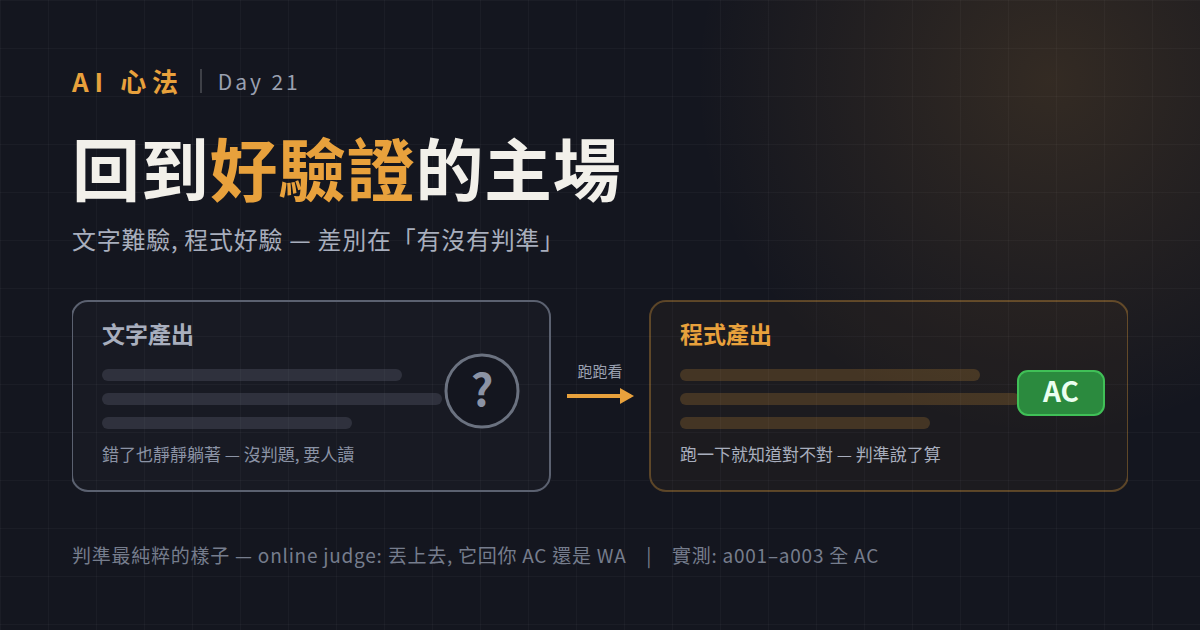
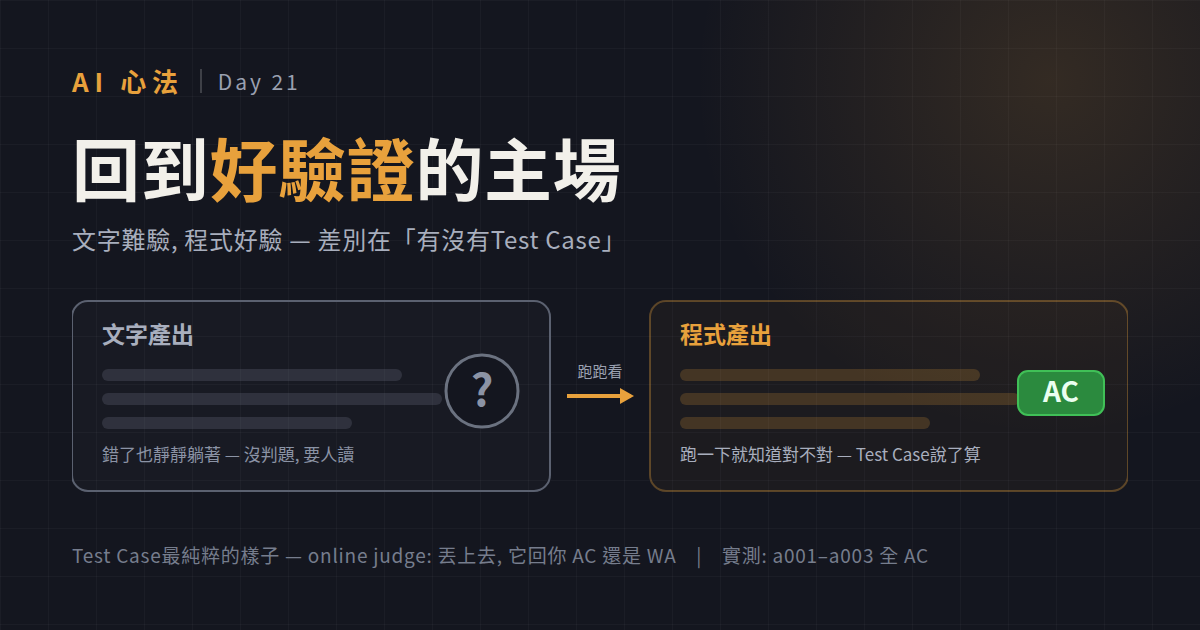
Day 21 封面: 判準 → Test Case (3 處) 並重繪
Claude-Session: https://claude.ai/code/session_01SkUscqAqqbTWPySrqyQb5A

Changed region(s): [[0.0617, 0.8444, 0.7708, 0.9048], [0.7092, 0.6937, 0.8325, 0.754], [0.4008, 0.3619, 0.5242, 0.4222]]

diff --git a/05-notes/ironman/assets/cover-day21.html b/05-notes/ironman/assets/cover-day21.html
@@ -24,7 +24,7 @@ text{font-family:"Noto Sans CJK TC",sans-serif}
   <div class="top"><span class="mark">AI 心法</span><span class="bar"></span><span class="day">Day 21</span></div>
   <div>
     <h1>回到<em>好驗證</em>的主場</h1>
-    <div class="sub">文字難驗, 程式好驗 — 差別在「有沒有判準」</div>
+    <div class="sub">文字難驗, 程式好驗 — 差別在「有沒有Test Case」</div>
   </div>
   <div class="chartwrap">
   <svg width="1056" height="210" viewBox="0 0 1056 210">
@@ -51,8 +51,8 @@ text{font-family:"Noto Sans CJK TC",sans-serif}
     <rect x="608" y="126" width="250" height="12" rx="6" fill="#e8a13c33"/>
     <rect x="946" y="80" width="86" height="44" rx="10" fill="#2b8a3e" stroke="#40c057" stroke-width="2"/>
     <text x="989" y="111" fill="#eafff0" font-size="28" font-weight="900" text-anchor="middle">AC</text>
-    <text x="608" y="170" fill="#a8aebd" font-size="17">跑一下就知道對不對 — 判準說了算</text>
+    <text x="608" y="170" fill="#a8aebd" font-size="17">跑一下就知道對不對 — Test Case說了算</text>
   </svg>
   </div>
-  <div class="foot">判準最純粹的樣子 — online judge: 丟上去, 它回你 AC 還是 WA　|　實測: a001–a003 全 AC</div>
+  <div class="foot">Test Case最純粹的樣子 — online judge: 丟上去, 它回你 AC 還是 WA　|　實測: a001–a003 全 AC</div>
 </div></body></html>
